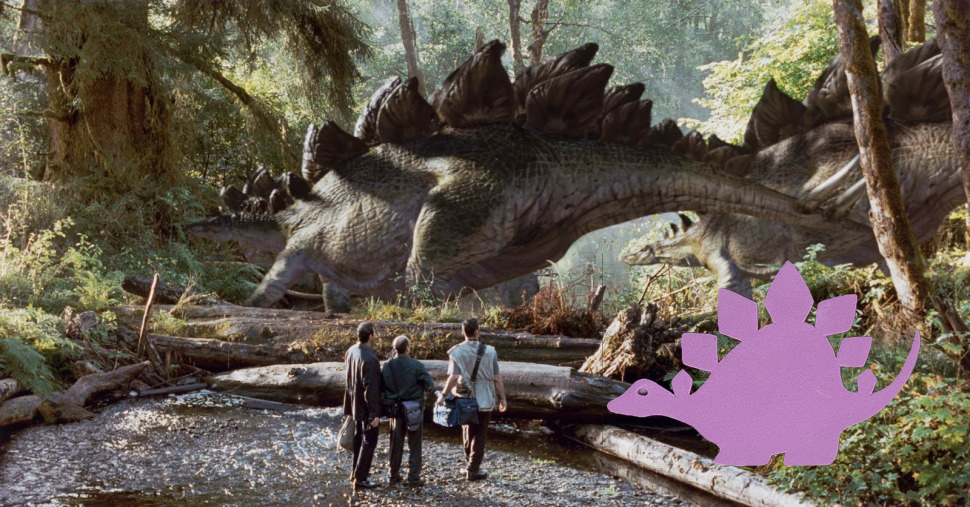
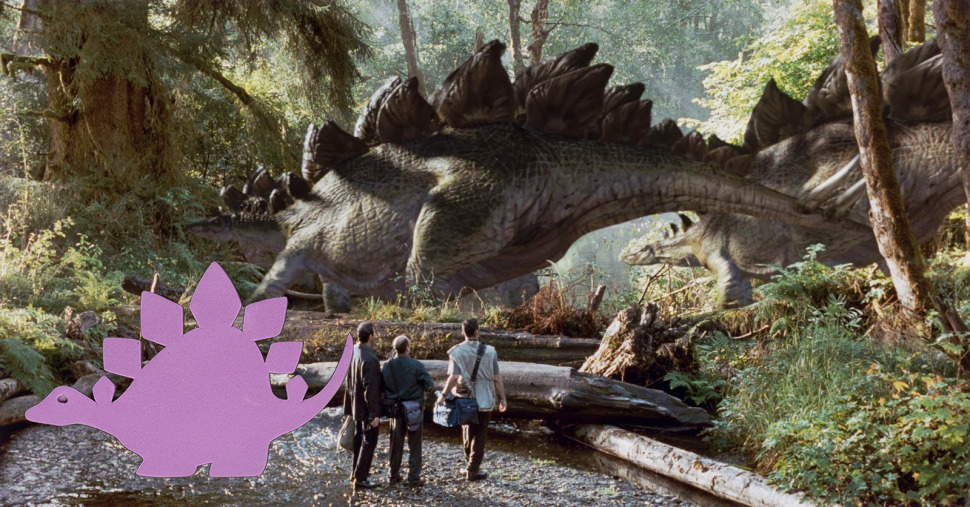
Keypoint Matching Succeed !
+ After some hours coding and a lot hours debugging !
+ The code currently using BRISK to create descriptor and this method performs slightly lower than AKAZE.
+ The program can detect our objects if and only if the objects are the only thing in an image. I photoshoped some sample queries as you can seen under src/peng/queries.
+ The major reason why is our dinosaours are LACKING of key points. I also PS a picture with the cats in and this program works very well.
+ I'll try lower the minMatches this week to see how does that works on our object.

+ Feature work: we can use color channel to enhance the matching.

Changed region(s): [[0.0, 0.503, 0.3711, 0.9467], [0.6186, 0.503, 0.9588, 0.9172]]

diff --git a/src/peng/search.py b/src/peng/search.py
@@ -1,23 +1,24 @@
 from __future__ import print_function
-from descriptor import Descriptor
-from matcher import  Matcher
+from dinodescriptor import DinoDescriptor
+from dinomatcher import  DinoMatcher
 import argparse
 import glob
 import csv
 import cv2
 
 ap = argparse.ArgumentParser()
-ap.add_argument("-d", "--database", required = True, help = "path to the object information database csv file")
+ap.add_argument("-d", "--db", required = True, help = "path to the object information database csv file")
 ap.add_argument("-s", "--samples", required = True, help = "path to the sample(training) data folder")
 ap.add_argument("-q", "--query", required = True, help = "path to the query image")
-
-args = vars(ap.parse_args())
 ap.add_argument("-f", "--sift", type = int, default = 0, help = "use SIFT = 1, not use = 0")
 
-database = {}
+args = vars(ap.parse_args())
 
-for line in csv.reader(open(args["database"])):
-    database[line[0]] = line[1:]
+
+db = {}
+
+for line in csv.reader(open(args["db"])):
+    db[line[0]] = line[1:]
 
 useSIFT = args["sift"] > 0
 useHamming = args["sift"] == 0
@@ -28,17 +29,14 @@ if useSIFT:
     minMatches = 50
 
 
-descriptor = Descriptor(useSIFT = useSIFT)
-matcher = Matcher(descriptor, glob.glob(args["samples"] + "/*.png"),
-                    ratio = ratio,
-                    minMatches = minMatches,
-                    useHamming = useHamming)
+descriptor = DinoDescriptor(useSIFT = useSIFT)
+dinoMatcher = DinoMatcher(descriptor, glob.glob(args["samples"] + "/*.png"), ratio = ratio, minMatches = minMatches, useHamming = useHamming)
 
 queryImage = cv2.imread(args["query"])
 gray = cv2.cvtColor(queryImage, cv2.COLOR_BGR2GRAY)
 (queryKps, queryDescs) = descriptor.describe(gray)
 
-results = matcher.search(queryKps, queryDescs)
+results = dinoMatcher.search(queryKps, queryDescs)
 
 cv2.imshow("Query", queryImage)
 
@@ -48,7 +46,7 @@ if len(results) == 0:
 
 else:
     for(i, (score, samplePath)) in enumerate(results):
-        description = database[samplePath[samplePath.rfind("/") + 1:]]
+        description = db[samplePath[samplePath.rfind("/") + 1:]]
         print("{}.{:.2f}% : {}".format(i + 1, score * 100, description))
 
         results = cv2.imread(samplePath)

diff --git a/src/peng/dinomatcher.py b/src/peng/dinomatcher.py
@@ -1,9 +1,8 @@
 import numpy as np
 import cv2
 
-class Matcher:
-    def __int__(self, descriptor, samplePaths, ratio = 0.7,
-                minMatches = 30, useHamming = True):
+class DinoMatcher:
+    def __init__(self, descriptor, samplePaths, ratio = 0.7, minMatches = 30, useHamming = True):
         self.descriptor = descriptor
         self.samplePaths = samplePaths
         self.ratio = ratio
@@ -11,7 +10,7 @@ class Matcher:
         self.distanceMethod = "BruteForce"
 
         if useHamming:
-            self.distanceMethod = "-Hamming"
+            self.distanceMethod += "-Hamming"
 
     # now search the thing
     def search(self, queryKps, queryDescs):
@@ -39,13 +38,13 @@ class Matcher:
 
         for m in rawMatches:
             if len(m) == 2 and m[0].distance < m[1].distance * self.ratio:
-                matches.append(m[0].trainIdx, m[0].queryIdx) #be careful with the train/query orders, I'm not sure
+                matches.append((m[0].trainIdx, m[0].queryIdx)) #be careful with the train/query orders, I'm not sure
 
         if len(matches) > self.minMatches:
             ptsA = np.float32([kpsA[i] for (i, _) in matches])
             ptsB = np.float32([kpsB[j] for (_, j) in matches])
             (_, status) = cv2.findHomography(ptsA, ptsB, cv2.RANSAC, 4.0)
 
-            return float(status,sum()) / status.size # matching ratio against the object in samplebase
+            return float(status.sum()) / status.size # matching ratio against the object in samplebase
 
         return -1.0 # no possible match

diff --git a/src/peng/dinodescriptor.py b/src/peng/dinodescriptor.py
@@ -1,17 +1,17 @@
 import numpy as np
 import cv2
 
-class Descriptor:
+class DinoDescriptor:
     def __init__(self, useSIFT = False):
         self.useSIFT = useSIFT
 
     def describe(self, image):
-        descriptor = cv2.AKAZE_create() #we can use BRISK as well
+        descriptor = cv2.BRISK_create() #we can use BRISK as well
 
         if self.useSIFT:
             descriptor = cv2.xfeatures2d.SIFT_create()
 
-        (kps, descs) = descriptor.detectAndCompute(gray, None)
+        (kps, descs) = descriptor.detectAndCompute(image, None)
         kps = np.float32([kp.pt for kp in kps]) #only take the (x,y) attribute and form a NP array.
 
         return (kps, descs)
